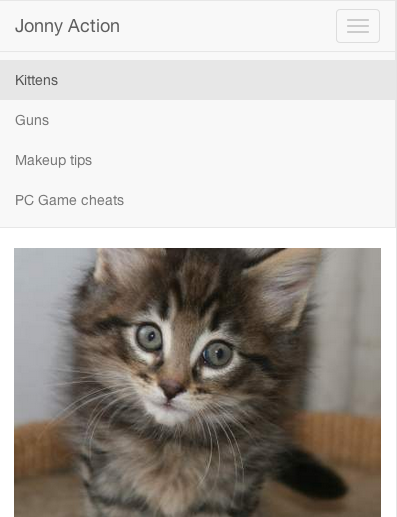
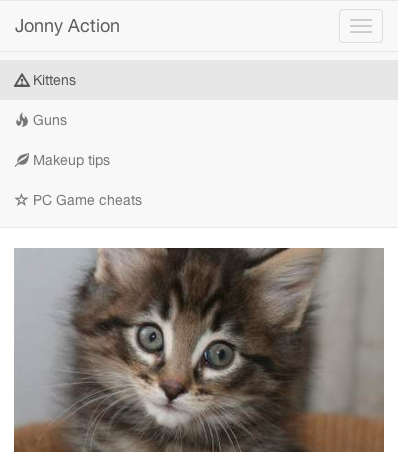
Tweaked assigments

diff --git a/README.md b/README.md
@@ -18,7 +18,7 @@ Questions? Grab me or [ping @javve at Twitter](https://twitter.com/javve).
 
 #### Errors?
 
-If you find any errors (spelling or whatever), please make a __pull request__ (I know Daniel have taught you) or at least [post an issue](https://github.com/javve/bootstrap-workshop/issues/new).
+If you find any errors (spelling or whatever), please make a __pull request__ (extra points!) or at least [post an issue](https://github.com/javve/bootstrap-workshop/issues/new).
 
 
 ## Assignment 1: Grid
@@ -50,7 +50,7 @@ Improve the grid. It should have four columns for desktop, two for tablets and o
 ## Assignment 3: Navbar
 
 Add a responsive menu (navbar) to your site. [Read more at getbootstrap.com](http://getbootstrap.com/components/#navbar). It should container a name (brand)
-four items.
+four items. REMEBER THE ICONS! [Read more at getbootstrap.com](http://getbootstrap.com/components/#glyphicons)
 
 #### Large
 ![](images/3-1.png?raw=true)
@@ -70,26 +70,25 @@ Add a creat account form with a large create button. _Remember that Bootstrap su
 ![](images/4-1.png?raw=true)
 
 
-## Assignment 5: Tooltips and popovers
-
-Javascript!
-
-Time to name your images/kittens. Add [tooltips](http://getbootstrap.com/javascript/#tooltips) that tells the name of the image/kitten
-and then add [popovers](http://getbootstrap.com/javascript/#popovers) that show some information about the image you click on.
-
-To do this tasks you'll need to use Javascript. Add all code into `<script></script>` at the bottom of `index.html`, just before `</body>`.
-
-__Tips__: Easiest is probably to use `$('img').tooltip();` & `$('img').popover();` and then use `data-` attributes.
-
-![](images/5-1.png?raw=true)
-
-
-## Assignment 6: Modal
+## Assignment 5: Modal
 
 Add a "read more" link beside "Create account" that launches a modal with more info. [Read more at getbootstrap.com](http://getbootstrap.com/javascript/#modals)
 
+![](images/5-1.png?raw=true)
+![](images/5-2.png?raw=true)
+
+
+## Assignment 6: Tooltips
+
+Javascript!
+
+Time to name your images/kittens. Add [tooltips](http://getbootstrap.com/javascript/#tooltips) that tells the name of the image/kitten.
+
+To do this tasks you'll need to use Javascript. Add all code into `<script></script>` at the bottom of `index.html`, just before `</body>`.
+
+__Tips__: Easiest is probably to use `$('img').tooltip();` and then use `data-` attributes.
+
 ![](images/6-1.png?raw=true)
-![](images/6-2.png?raw=true)
 
 
 ## Assignment 7: Styling with LESS CSS (hardcore)
